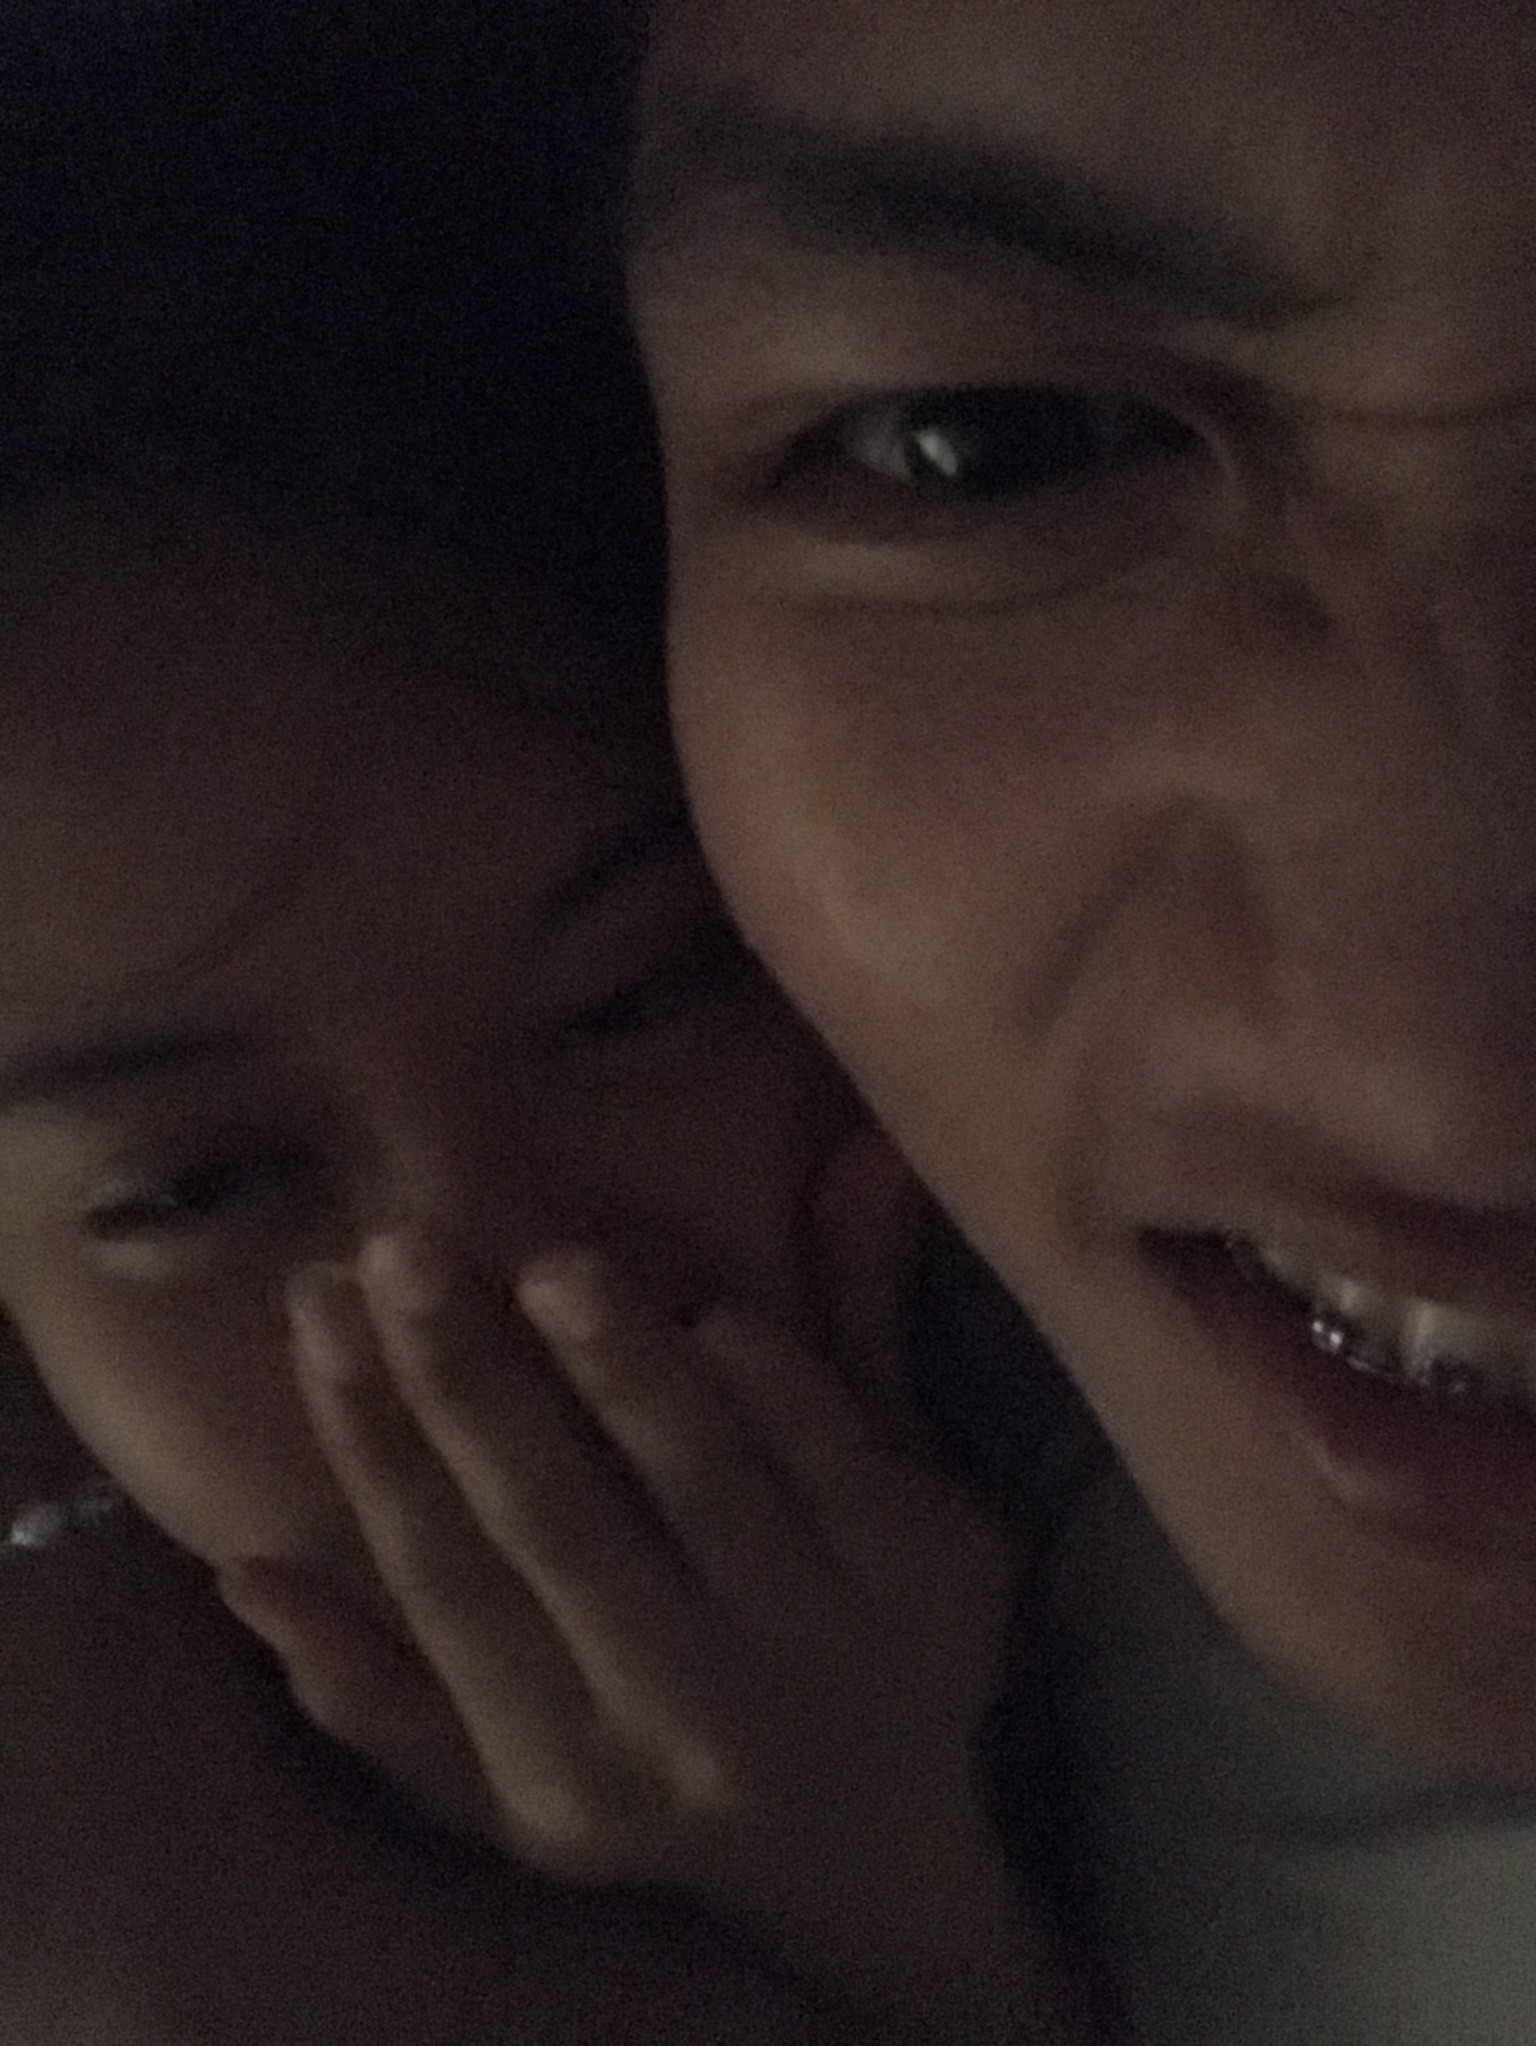
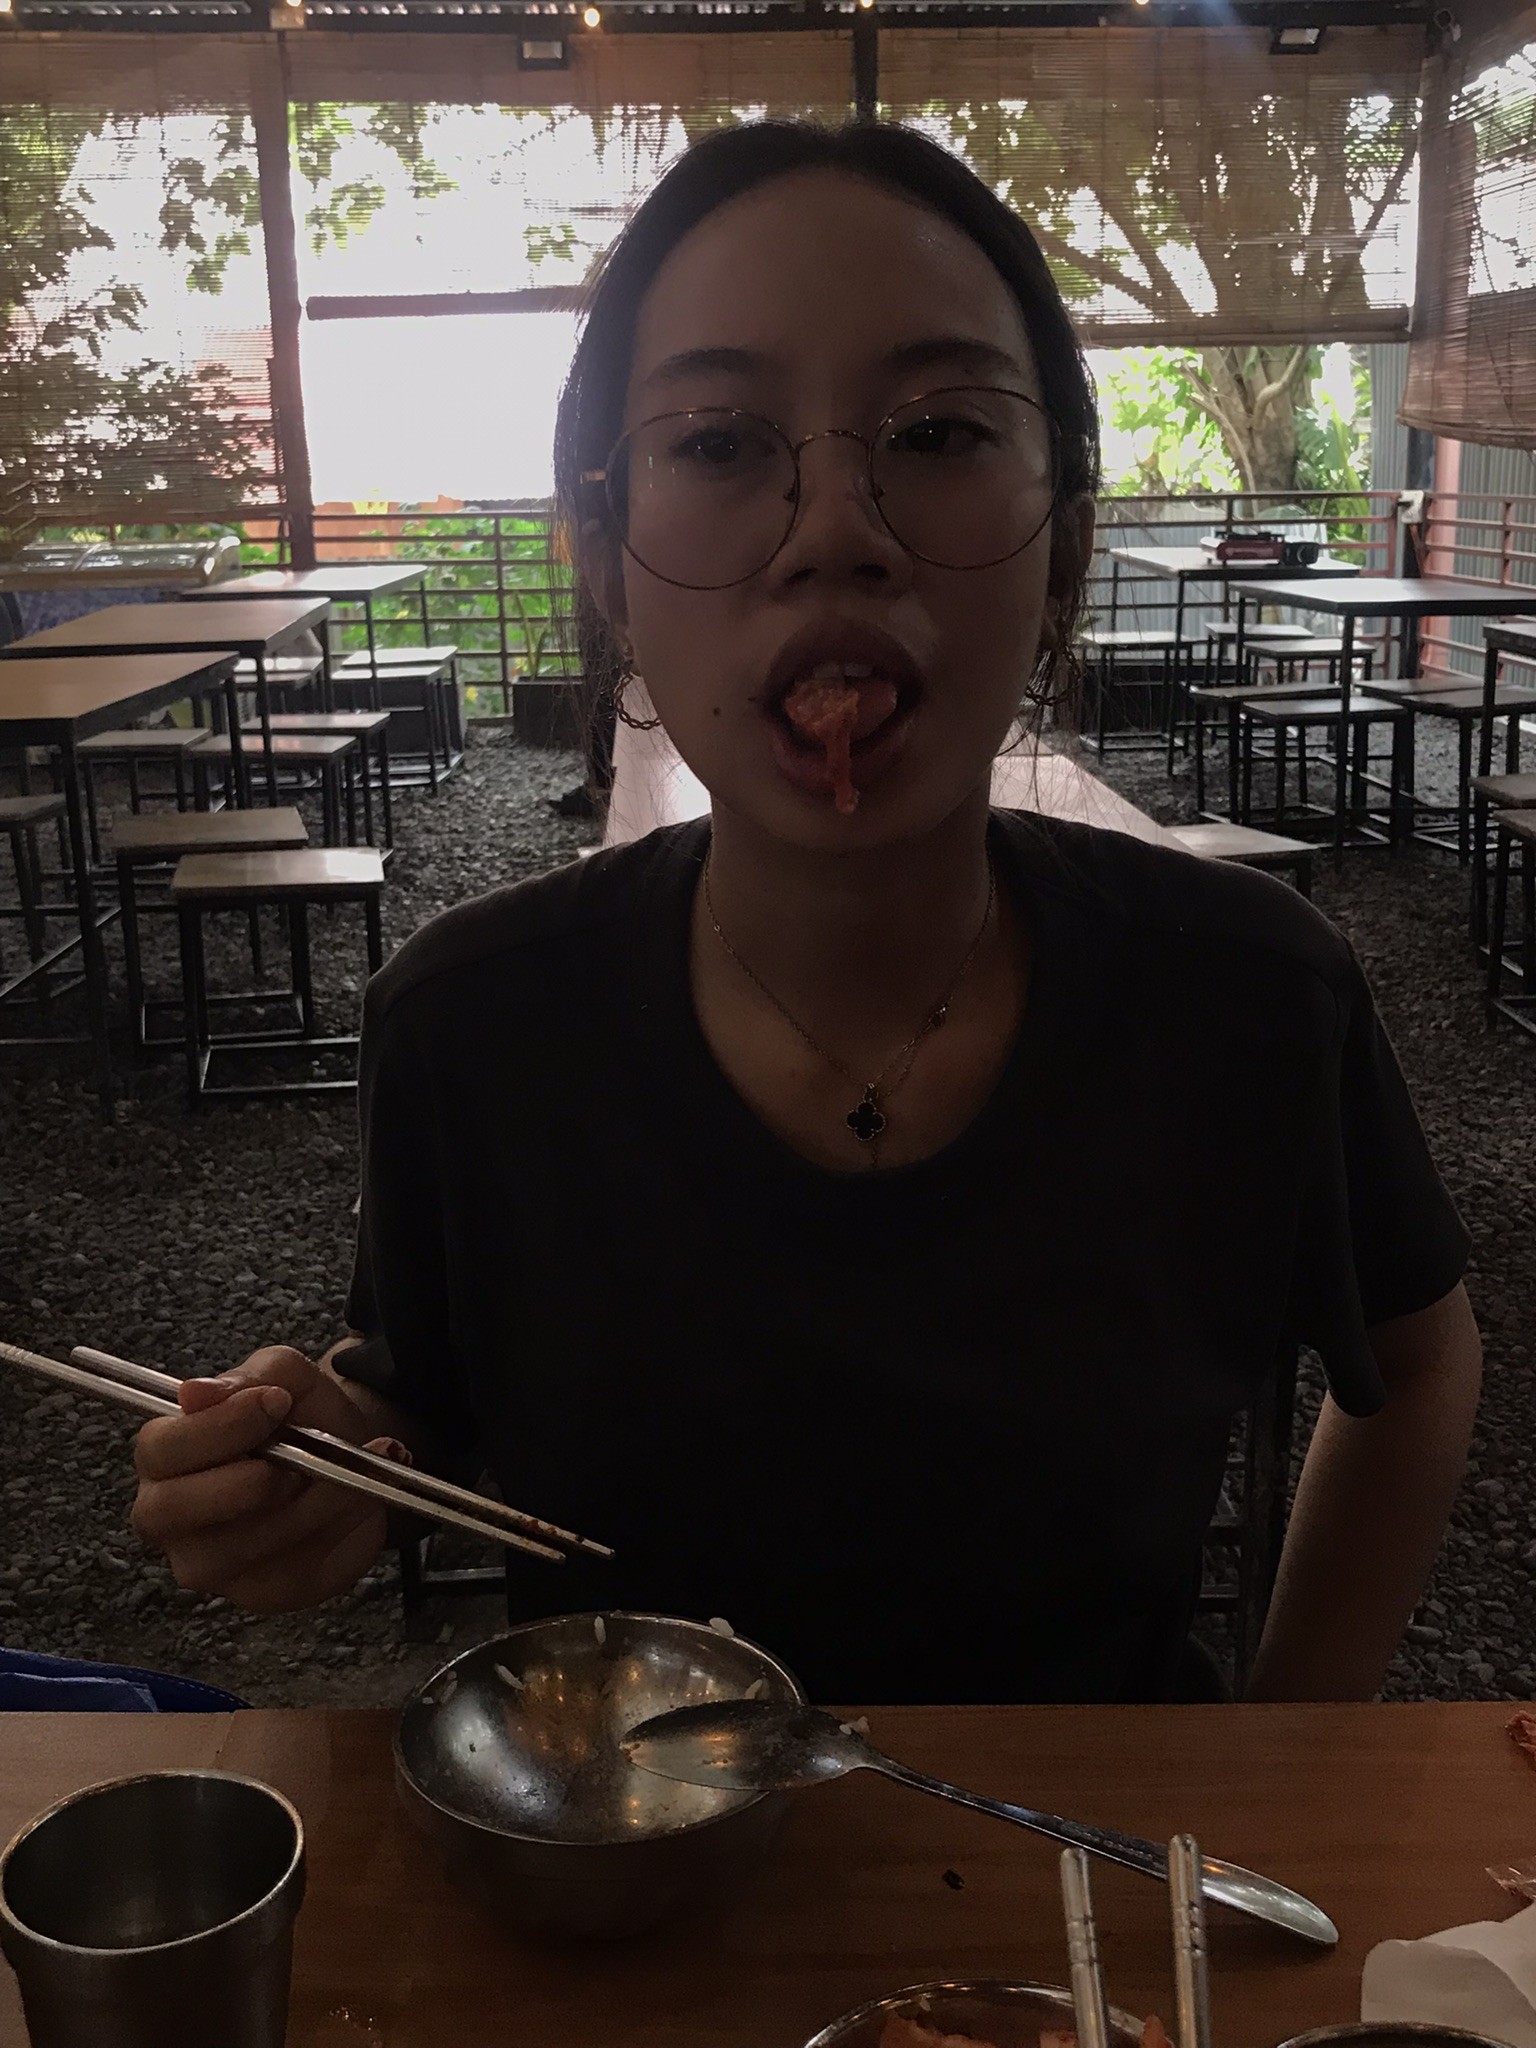
(v4.1) update last part and change pics

diff --git a/valentines-2026/invitation.html b/valentines-2026/invitation.html
@@ -76,22 +76,19 @@
         <div id="polaroidStack" class="fixed inset-0 flex items-center justify-center opacity-0 z-40 pointer-events-none transition-opacity duration-1000">
             <div class="relative w-[400px] h-[500px] flex items-center justify-center">
                 <div class="polaroid swipeable rotate-[4deg] z-[10]">
-                    <img src="https://picsum.photos/400?random=1" /><p class="romantic-font text-center mt-3 text-gray-700 text-2xl">Our first memory 💕</p>
+                    <img src="../images/1.JPEG" /><p class="romantic-font text-center mt-3 text-gray-700 text-2xl">what u lookin at</p>
                 </div>
                 <div class="polaroid swipeable rotate-[-6deg] z-[20]">
-                    <img src="https://picsum.photos/400?random=2" /><p class="romantic-font text-center mt-3 text-gray-700 text-2xl">Endless laughs</p>
+                    <img src="../images/2.JPEG" /><p class="romantic-font text-center mt-3 text-gray-700 text-2xl">goofy ahh</p>
                 </div>
                 <div class="polaroid swipeable rotate-[9deg] z-[30]">
-                    <img src="https://picsum.photos/400?random=3" /><p class="romantic-font text-center mt-3 text-gray-700 text-2xl">Late night talks 🌙</p>
+                    <img src="../images/3.JPEG" /><p class="romantic-font text-center mt-3 text-gray-700 text-2xl">cuddles</p>
                 </div>
                 <div class="polaroid swipeable rotate-[-11deg] z-[40]">
-                    <img src="https://picsum.photos/400?random=4" /><p class="romantic-font text-center mt-3 text-gray-700 text-2xl">Stolen moments</p>
+                    <img src="../images/4.jpg" /><p class="romantic-font text-center mt-3 text-gray-700 text-2xl">:P</p>
                 </div>
                 <div class="polaroid swipeable rotate-[6deg] z-[50]">
-                    <img src="https://picsum.photos/400?random=5" /><p class="romantic-font text-center mt-3 text-gray-700 text-2xl">Just us 💖</p>
-                </div>
-                <div class="polaroid swipeable rotate-[-3deg] z-[60]">
-                    <img src="https://picsum.photos/400?random=6" /><p class="romantic-font text-center mt-3 text-gray-700 text-2xl">Forever vibes</p>
+                    <img src="../images/5.JPEG" /><p class="romantic-font text-center mt-3 text-gray-700 text-2xl">i love us</p>
                 </div>
             </div>
         </div>
